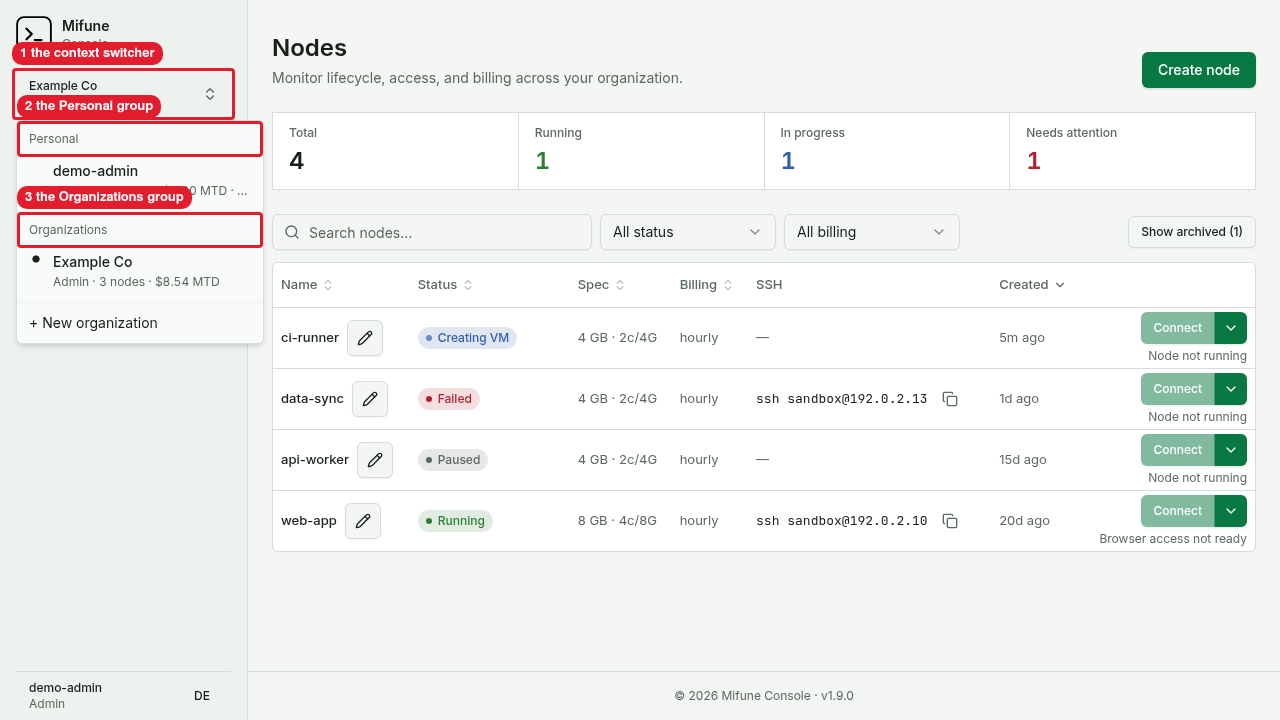
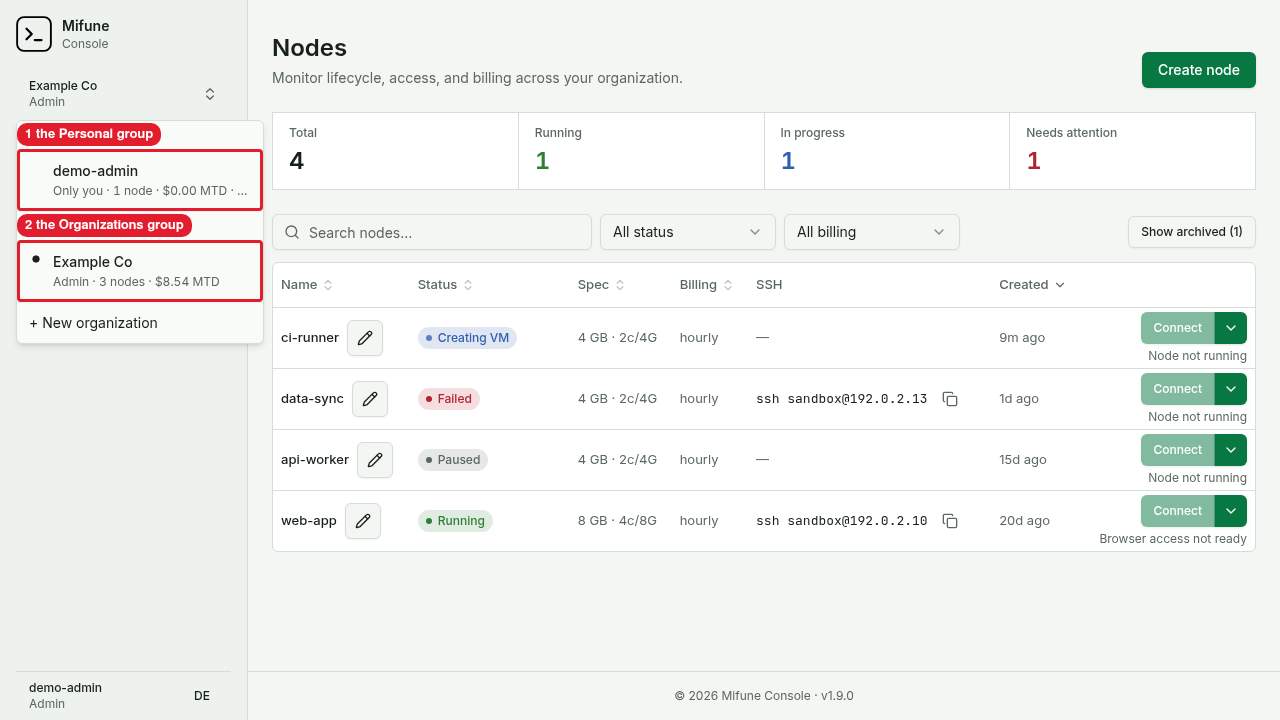
docs: retake the context switcher screenshot (#72, US-002)

Changed region(s): [[0.0, 0.0611, 0.2188, 0.3667], [0.0, 0.3972, 0.2188, 0.4278], [0.7812, 0.4583, 0.8125, 0.4889]]

diff --git a/docs/console/getting-started.md b/docs/console/getting-started.md
@@ -28,8 +28,8 @@ The context switcher in the navigation shows the name of the current context. To
 
 1. Select the context switcher. The menu shows the **Personal** group and the **Organizations** group.
 
-   ![The open context switcher shows the Personal group and the Organizations group.](/img/console/getting-started-2.png)
-   Callouts: 1 is the context switcher. 2 is the **Personal** group. 3 is the **Organizations** group.
+   ![The open context switcher shows the demo-admin personal space in the Personal group and Example Co in the Organizations group.](/img/console/getting-started-2.png)
+   Callouts: 1 is the **Personal** group. 2 is the **Organizations** group.
 
 2. Select a context. The Console shows the nodes of that context.
 
